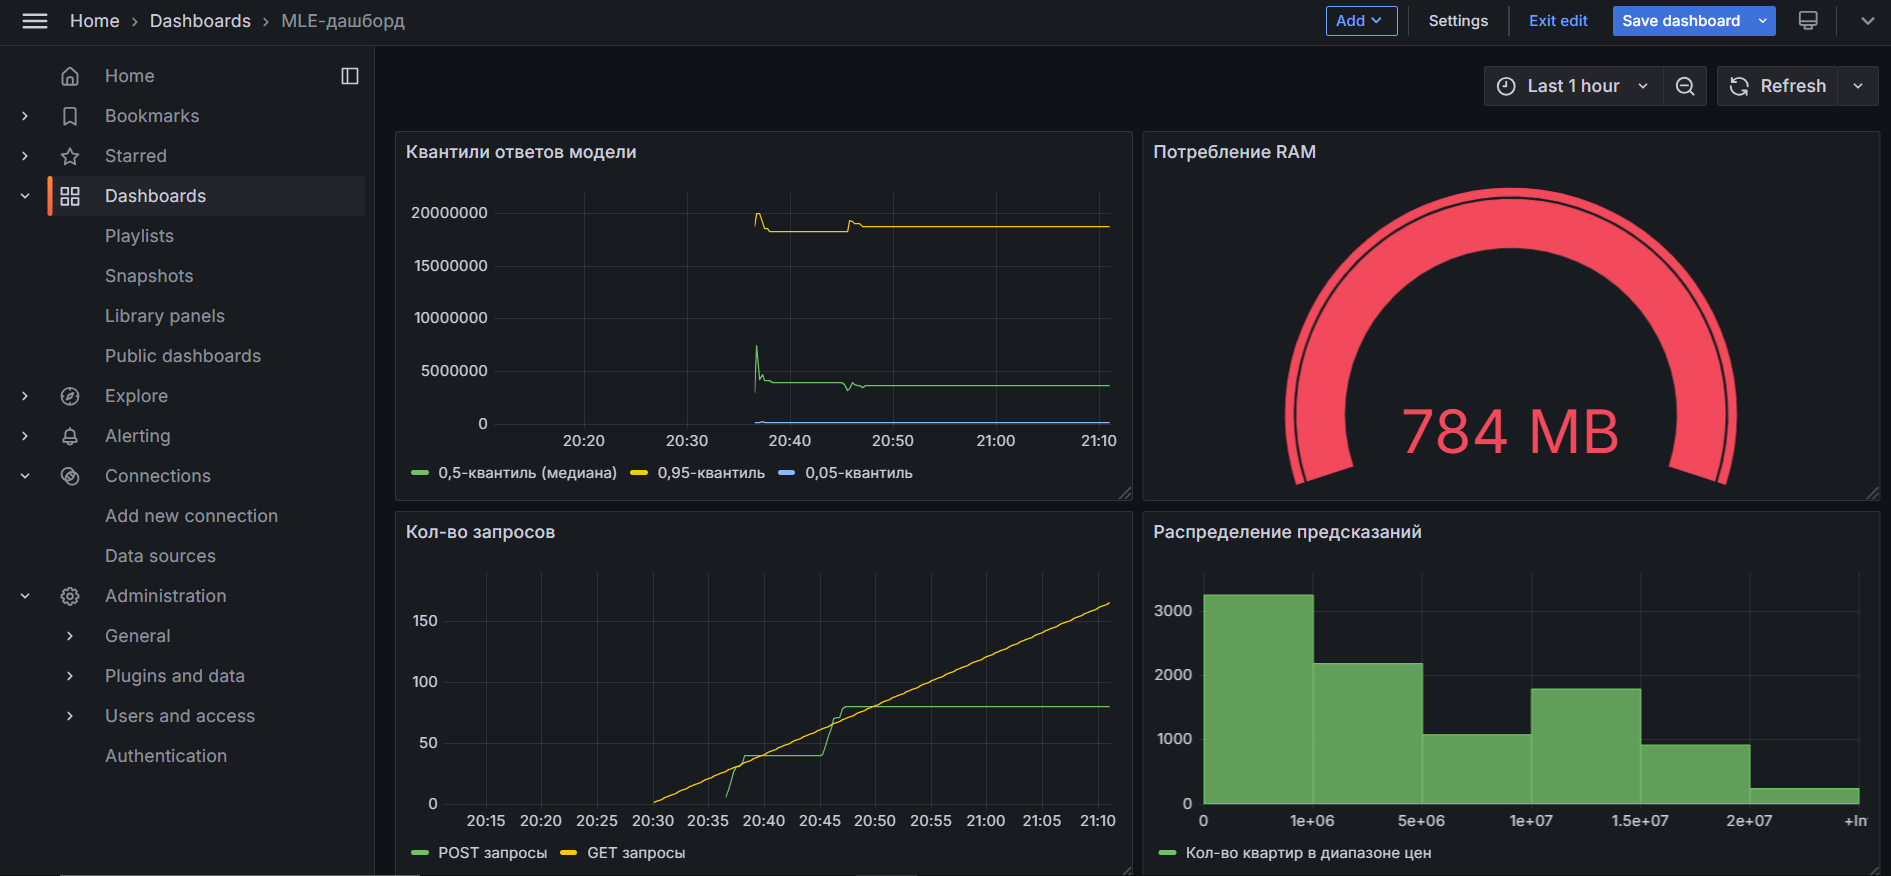
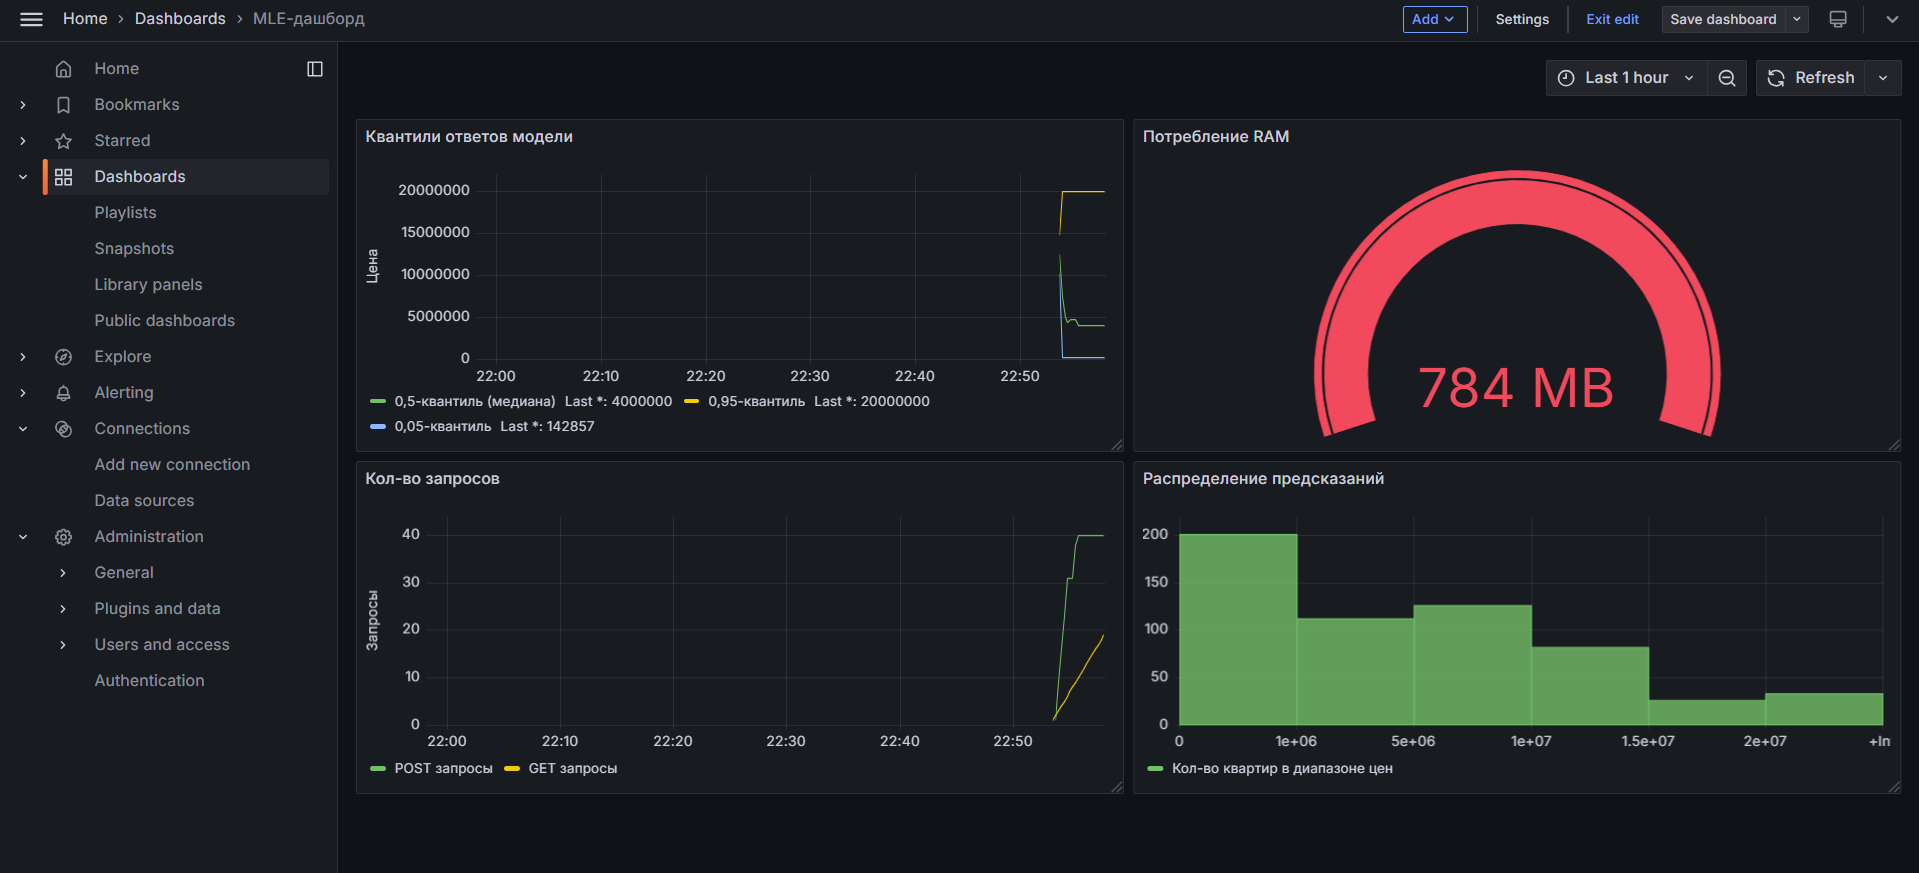
Внес еще правки

diff --git a/services/ml_service/flats_app.py b/services/ml_service/flats_app.py
@@ -20,7 +20,7 @@ main_app_predictions = Histogram(
     # описание метрики
     "Histogram of predictions",
     # указываем корзины для гистограммы
-    buckets=(1000000, 5000000, 10000000, 15000000, 20000000)
+    buckets=(1e+06, 5e+06, 1e+07, 1.5e+07, 2e+07)
 ) 
 
 main_app_counter = Counter("main_app_counter", "count predictions")
